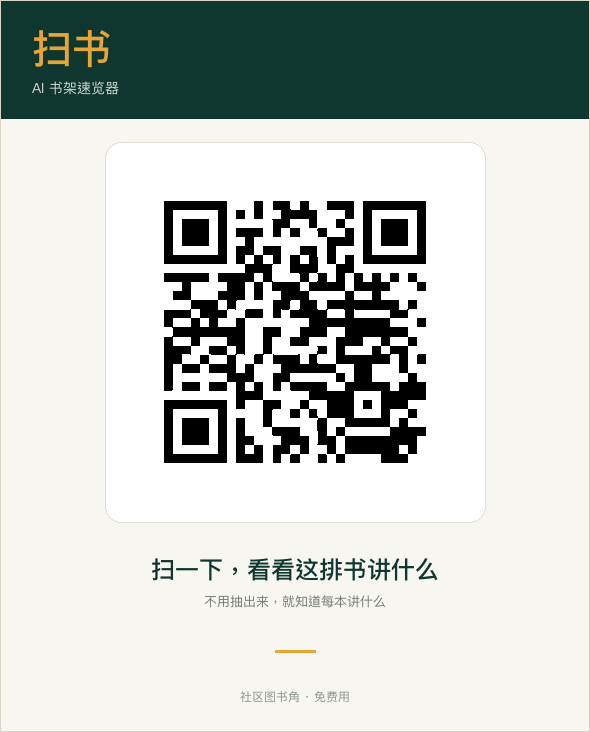
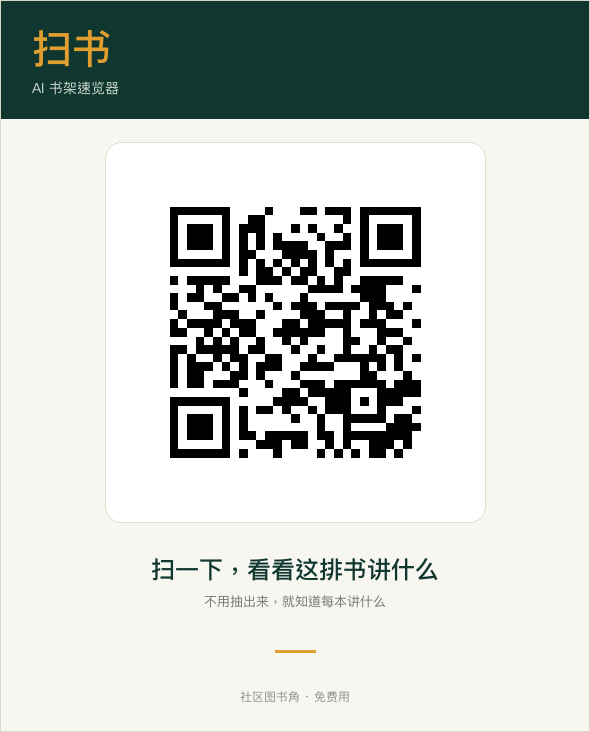
二维码换成线上地址，README 填入真实链接
二维码已用 jsQR 解码验证，内容为 https://elpultodjxuv.sealoshzh.site

Changed region(s): [[0.2746, 0.2705, 0.7322, 0.6311]]

diff --git a/README.md b/README.md
@@ -20,7 +20,7 @@
   <sub>扫码就能用，不需要安装</sub>
 </p>
 
-**小学组 · 社区 AI 乐园**　　在线体验：`https://<部署域名>`
+**小学组 · 社区 AI 乐园**　　在线体验：https://elpultodjxuv.sealoshzh.site
 
 ---
 
